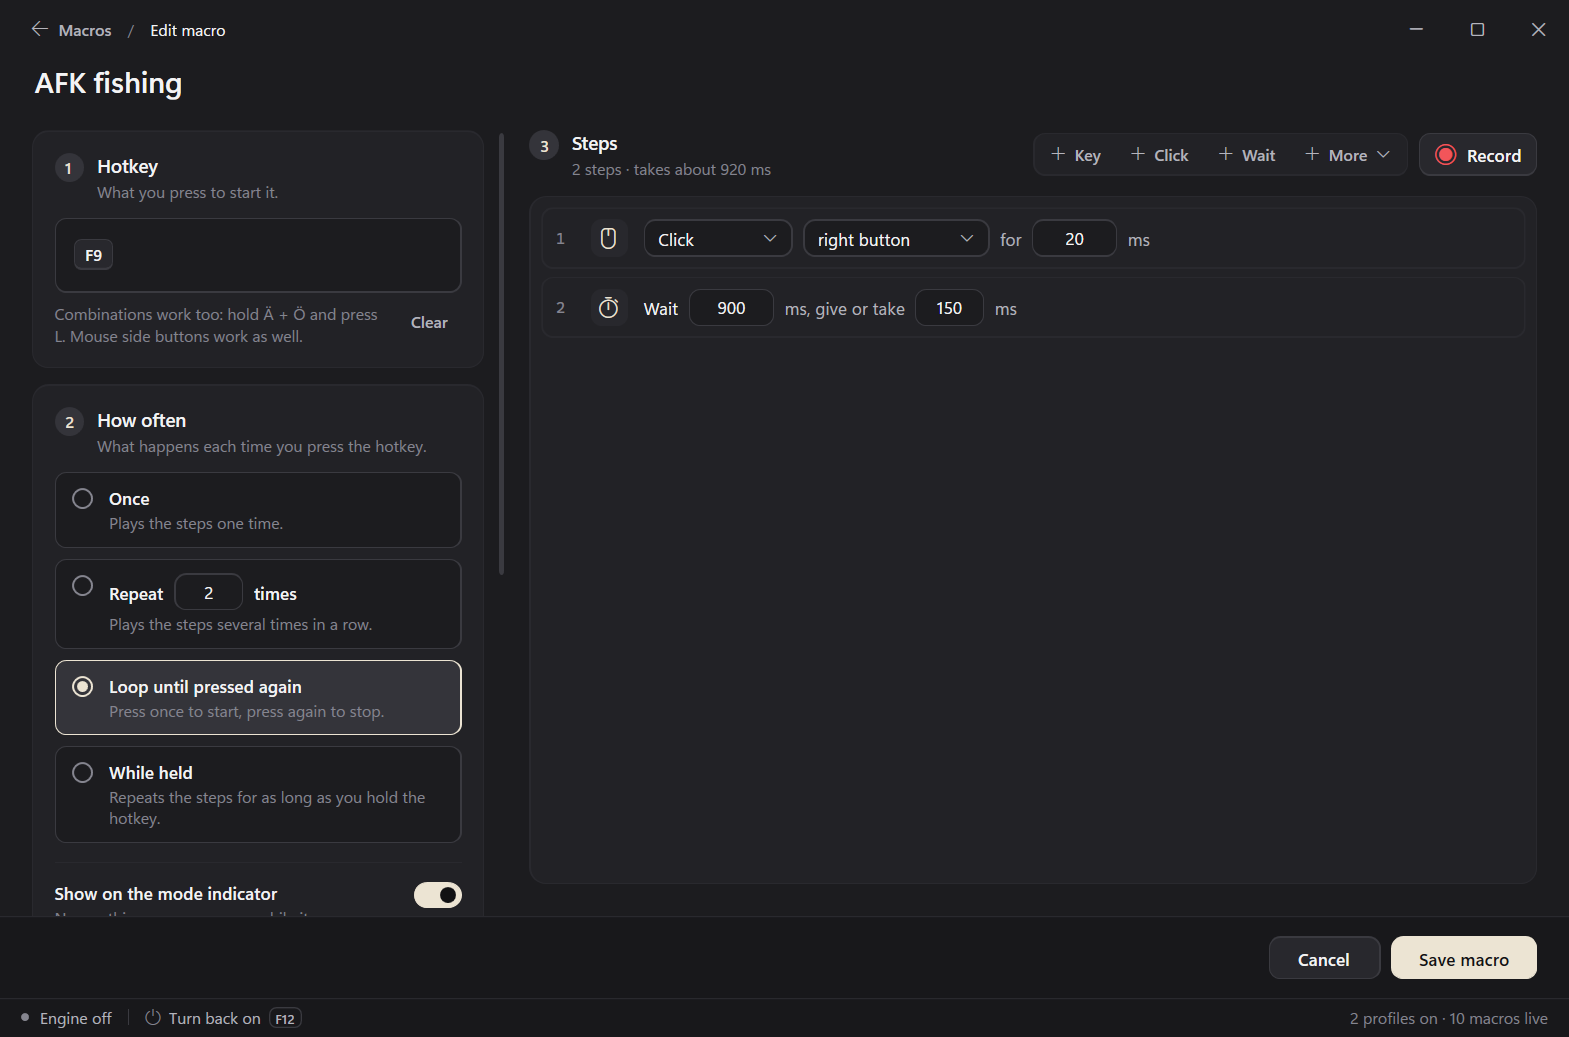
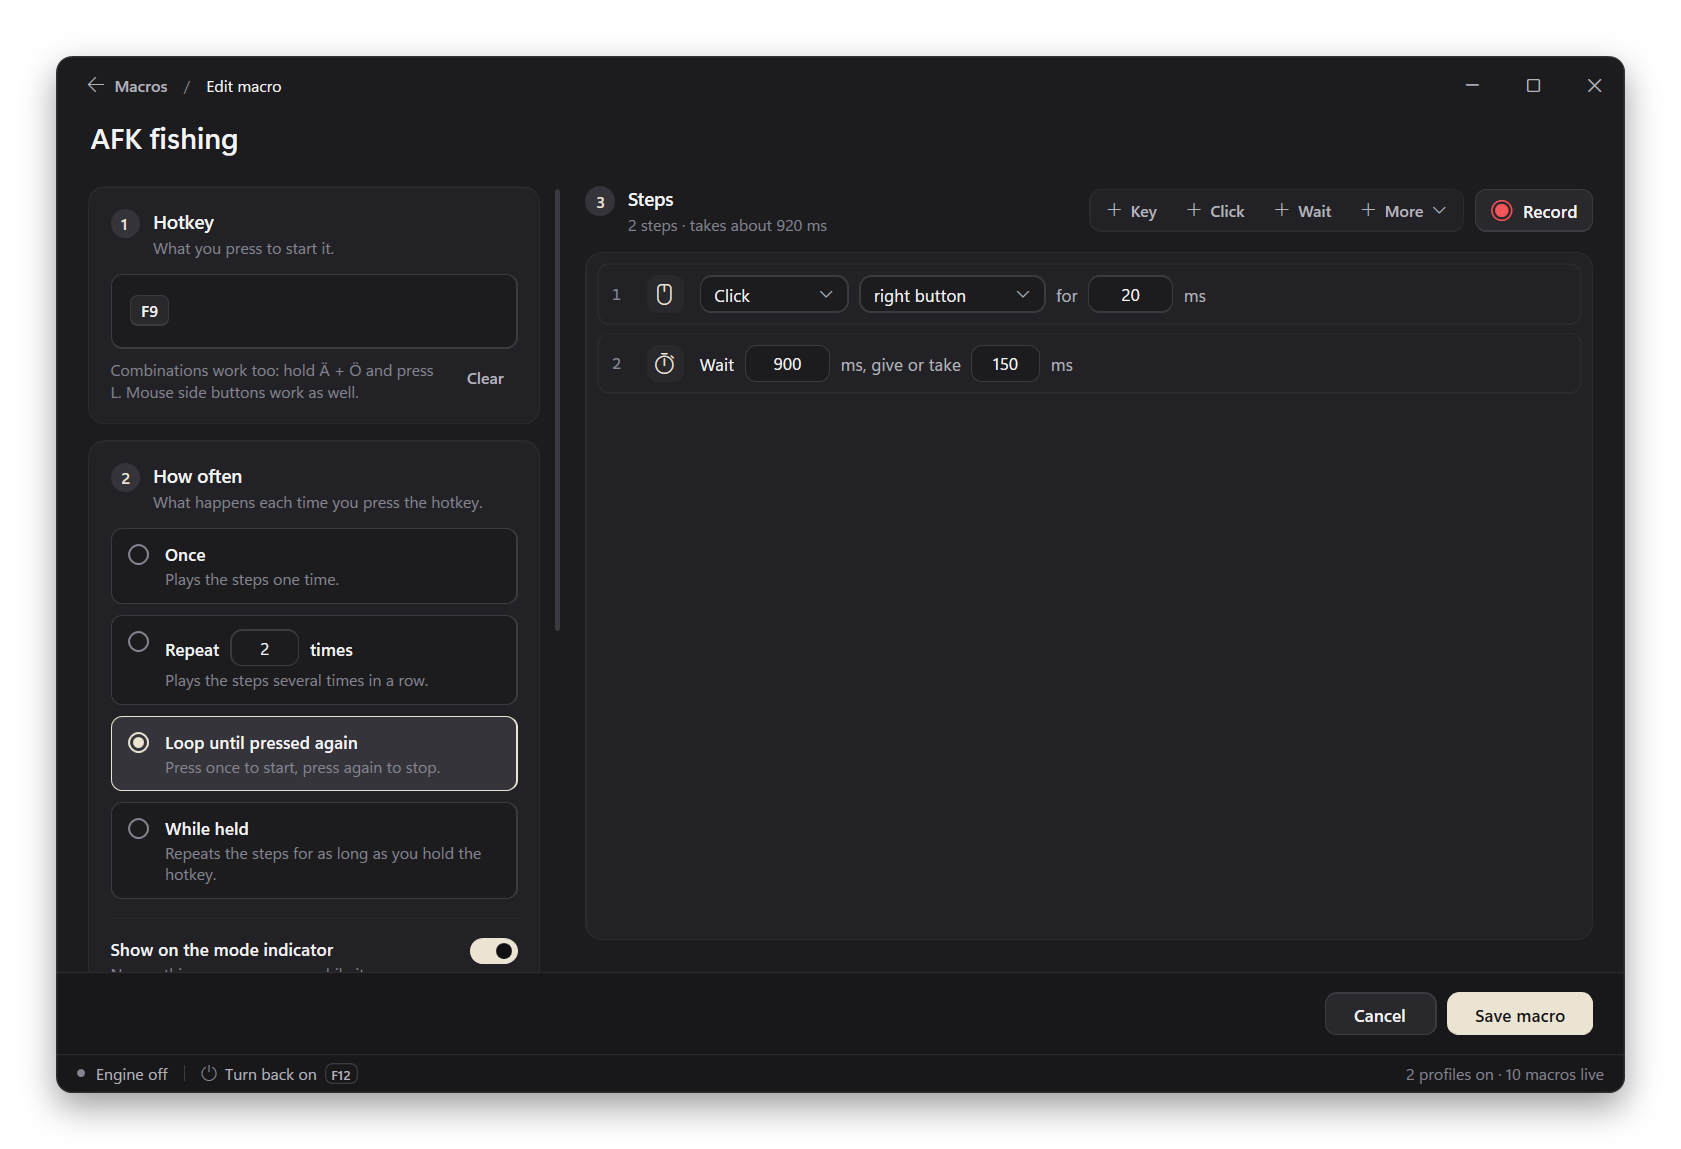
README in the SoundSwitcher style, with framed screenshots
Centred icon, name, tagline, download link and main screenshot, then
how it works, features, folded screenshots, requirements and building.
docs/frame_screenshots.ps1 gives the screenshots rounded corners, a thin
edge and a soft shadow on a transparent background.

diff --git a/README.md b/README.md
@@ -1,47 +1,58 @@
+<div align="center">
+
+<img src="Assets/app.png" width="88" alt="MacroMaster icon">
+
 # MacroMaster
 
 Hotkeys, auto clickers and game macros for Windows, built in a visual editor. No scripting.
 
-**[Download for Windows (.zip)](https://github.com/OlfJD/MacroMaster/releases/latest/download/MacroMaster-win-x64.zip)**. Portable: extract and run `MacroMaster.exe`. Needs the [.NET 10 Desktop Runtime](https://dotnet.microsoft.com/download/dotnet/10.0).
+[**Download MacroMaster for Windows**](https://github.com/OlfJD/MacroMaster/releases/latest/download/MacroMaster-win-x64.zip)
 
-![Macros in a profile](docs/screenshots/macros.png)
+<br>
+
+<img src="docs/screenshots/macros.png" alt="MacroMaster with a profile of everyday macros">
+
+</div>
+
+## How it works
+
+- **New macro**: give it a hotkey, pick how often it runs, and add the steps. Or hit **Record** and do it once yourself; the timing is kept.
+- **Profiles** hold the macros for one game or app. Switch a whole profile on or off in the sidebar.
+- **F12** turns the engine off: every macro stops and held keys are let go. Press it again to turn it back on.
+- **Close the window** and it keeps running in the tray. A quick open key (Settings) brings it to the front mid-game.
 
 ## Features
 
-- **Any hotkey**: a key, a combination like `Ctrl + Alt + S`, chords like `Ä + Ö + L`, or the mouse side buttons.
+- **Hotkeys**: any key, combinations like `Ctrl + Alt + S`, chords like `Ä + Ö + L`, or the mouse side buttons.
 - **Four ways to run**: once, a number of times, in a loop until pressed again, or while the key is held.
-- **Steps**: keys, clicks, waits, mouse moves, scrolling, typed text, media keys, repeat blocks and *wait until a pixel turns a colour*. Or hit **Record** and do it once yourself; the timing is kept.
+- **Steps**: keys, clicks, waits, mouse moves, scrolling, typed text, media keys, repeat blocks and *wait until a pixel turns a colour*.
 - **Give or take**: a wait of 900 ± 150 ms lasts anywhere between 750 and 1050 ms, so timing doesn't look robotic.
-- **Profiles per game or app**: switch whole profiles on and off. A macro limited to one program only reacts there, and its loop stops when you alt-tab away.
+- **Per app**: a macro limited to one program only reacts there, and its loop stops when you alt-tab away.
 - **Mode groups**: several macros on one hotkey, with switch keys picking which one runs.
-- **On-screen overlay**: a small notification when a macro starts or stops, and an optional mode indicator showing the active mode and running loops. Any corner or a spot you drag yourself.
+- **On-screen overlay**: a small notification when a macro starts or stops, and an optional mode indicator. Any corner or a spot you drag yourself.
 - **Starts with Windows**, as administrator if you like, so hotkeys also work in games that run as administrator.
 - **Quiet updates** from GitHub releases, installed when no macro is running.
-- **Scales to your screen** (1080p, 1440p, 4K) or to the size you pick, with your own accent colour.
 - **AutoHotkey import**: drop an `.ahk` script on the window. Profiles and single macros export as files.
 
-![Macro editor](docs/screenshots/editor.png)
+Notifications don't show over a game in exclusive fullscreen (e.g. Minecraft with `F11`); use windowed or borderless fullscreen.
 
 <details>
-<summary>Mode groups and settings</summary>
+<summary>More screenshots</summary>
+<br>
 
-![Mode group: Mouse 5 builds a bridge after F7 and digs a tunnel after F8](docs/screenshots/mode-groups.png)
+<img src="docs/screenshots/editor.png" alt="Macro editor: hotkey, how often, steps">
 
-![Settings](docs/screenshots/settings.png)
+<img src="docs/screenshots/mode-groups.png" alt="Mode group: Mouse 5 builds a bridge after F7 and digs a tunnel after F8">
+
+<img src="docs/screenshots/settings.png" alt="Settings">
 
 </details>
 
-## Shortcuts
+## Requirements
 
-| Keys | Action |
-| --- | --- |
-| `F12` | Engine on / off: stops every macro and releases held keys |
-| Quick open (Settings) | Bring MacroMaster to the front mid-game |
-| Switch key of a mode group | Pick which macro the shared hotkey runs |
+Windows with the [.NET 10 Desktop Runtime](https://dotnet.microsoft.com/download/dotnet/10.0) (x64). Portable: extract the zip and run `MacroMaster.exe`.
 
-Notifications don't show over a game in exclusive fullscreen (e.g. Minecraft with `F11`). Windows draws nothing else there; use windowed or borderless fullscreen.
-
-## Build
+## Building
 
 ```bash
 git clone https://github.com/OlfJD/MacroMaster.git
@@ -49,4 +60,4 @@ cd MacroMaster
 dotnet run
 ```
 
-Needs the .NET 10 SDK. `dotnet test Tests` runs the tests; they never touch your keyboard or mouse. To release, bump `<Version>` in `MacroMaster.csproj`, `dotnet publish -c Release`, zip the output as `MacroMaster-win-x64.zip` and attach it to a release tagged `v<version>`. `DEVLOG.md` has the architecture, changelog and to-do list.
+Needs the .NET 10 SDK. `dotnet test Tests` runs the tests; they never touch your keyboard or mouse. To release, bump `<Version>` in `MacroMaster.csproj`, `dotnet publish -c Release`, zip the output as `MacroMaster-win-x64.zip` and attach it to a release tagged `v<version>`. Screenshots in `docs/screenshots` get their rounded corners from `docs/frame_screenshots.ps1`. Architecture, changelog and to-dos are in [DEVLOG.md](DEVLOG.md).

diff --git a/DEVLOG.md b/DEVLOG.md
@@ -280,3 +280,7 @@ From the Blur-AutoClicker study (`docs/blur-autoclicker-study.md`, recommendatio
 - **1 ms timer only while running**: `timeBeginPeriod(1)` was held from start-up to exit, also idle in the tray. Each run now asks for it and gives it back (`BeginPreciseTiming` / `EndPreciseTiming` in `MacroEngine.StartRun`). Benchmark: loop timing at 10 / 50 / 100 CPS is the same with and without it.
 - **Foreground app** (`ProcessWatcher`, `ForegroundNameCache`): the name was cached per process id forever; a process id Windows gave to another program could keep the old name. Now per window and process id, for one second at most, read with `QueryFullProcessImageName`. Tests: `ProcessWatcherTests`.
 - Tests: 97 → 116.
+
+### Version 2.7.7 - README in the SoundSwitcher style (2026-11-24) — app version 1.3.1
+- **README header like SoundSwitcher's**: centred app icon, name, tagline, download link and the main screenshot; then "How it works" (new macro, profiles, F12, tray), the feature list, more screenshots folded away, requirements and building. The shortcuts table went into "How it works".
+- **Framed screenshots**: `docs/frame_screenshots.ps1` gives each PNG in `docs/screenshots` rounded corners, a thin light edge (so the dark window stands out on GitHub's dark theme) and a soft shadow on a transparent background, like a window on the Windows 11 desktop. Pixels inside are untouched. It skips images that are already framed, so run it again after retaking a screenshot with `PrintWindow`.
